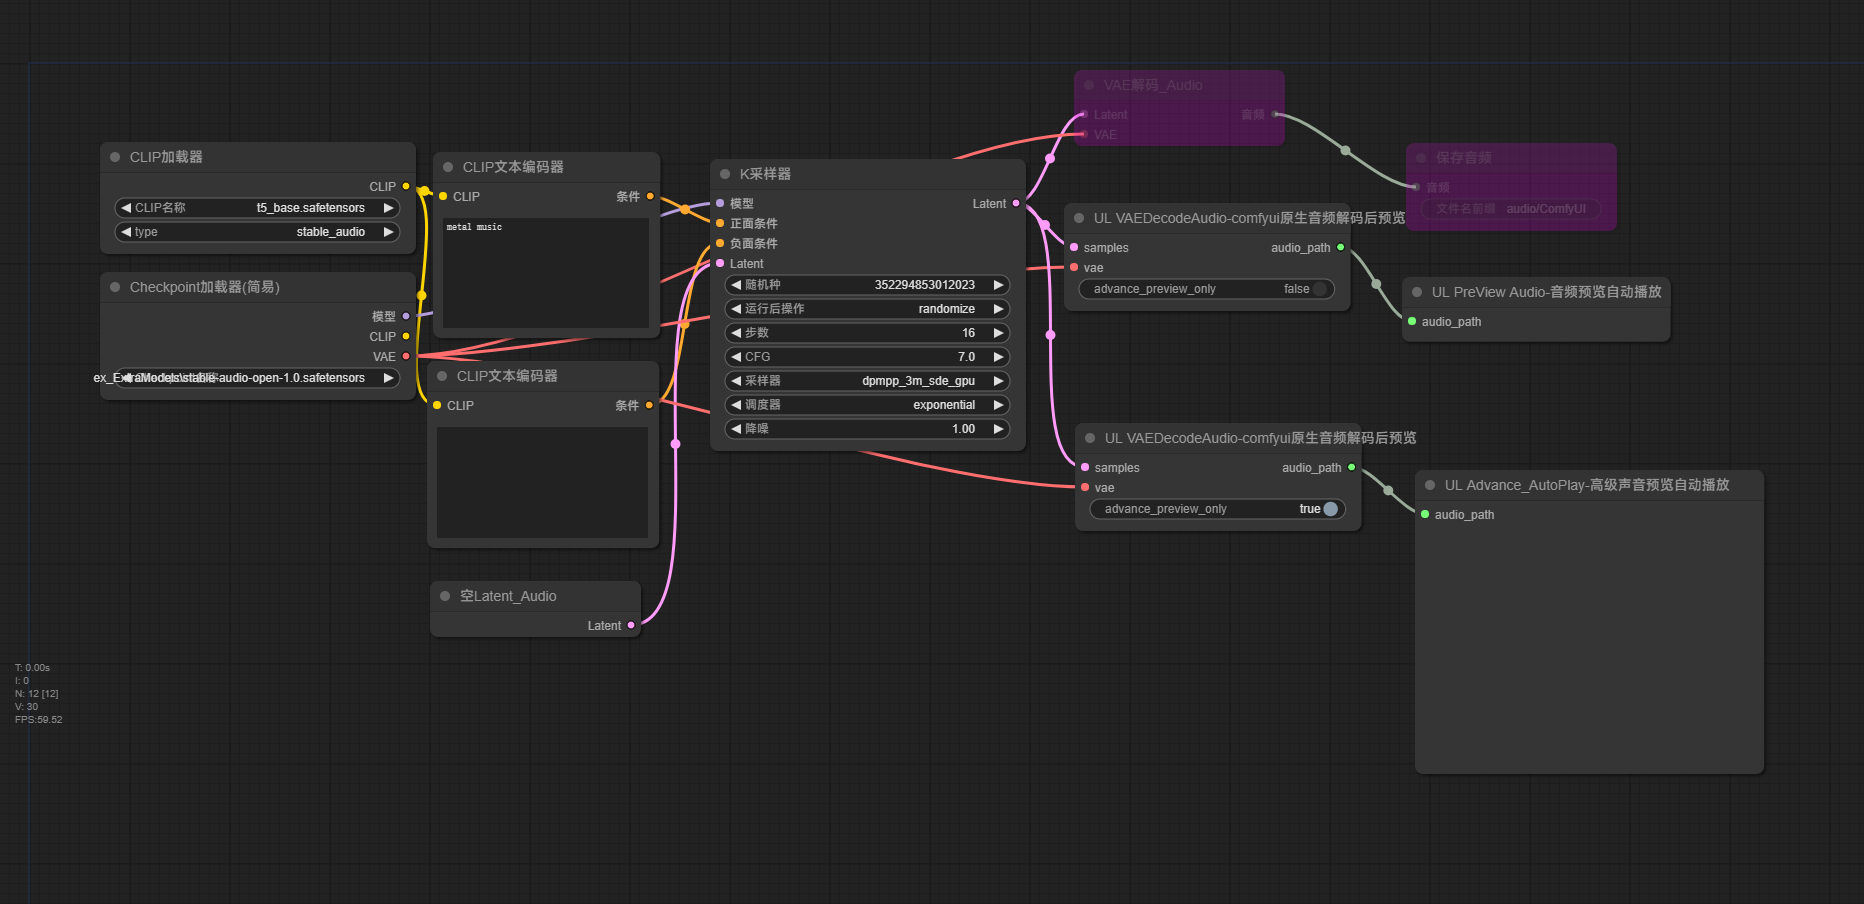
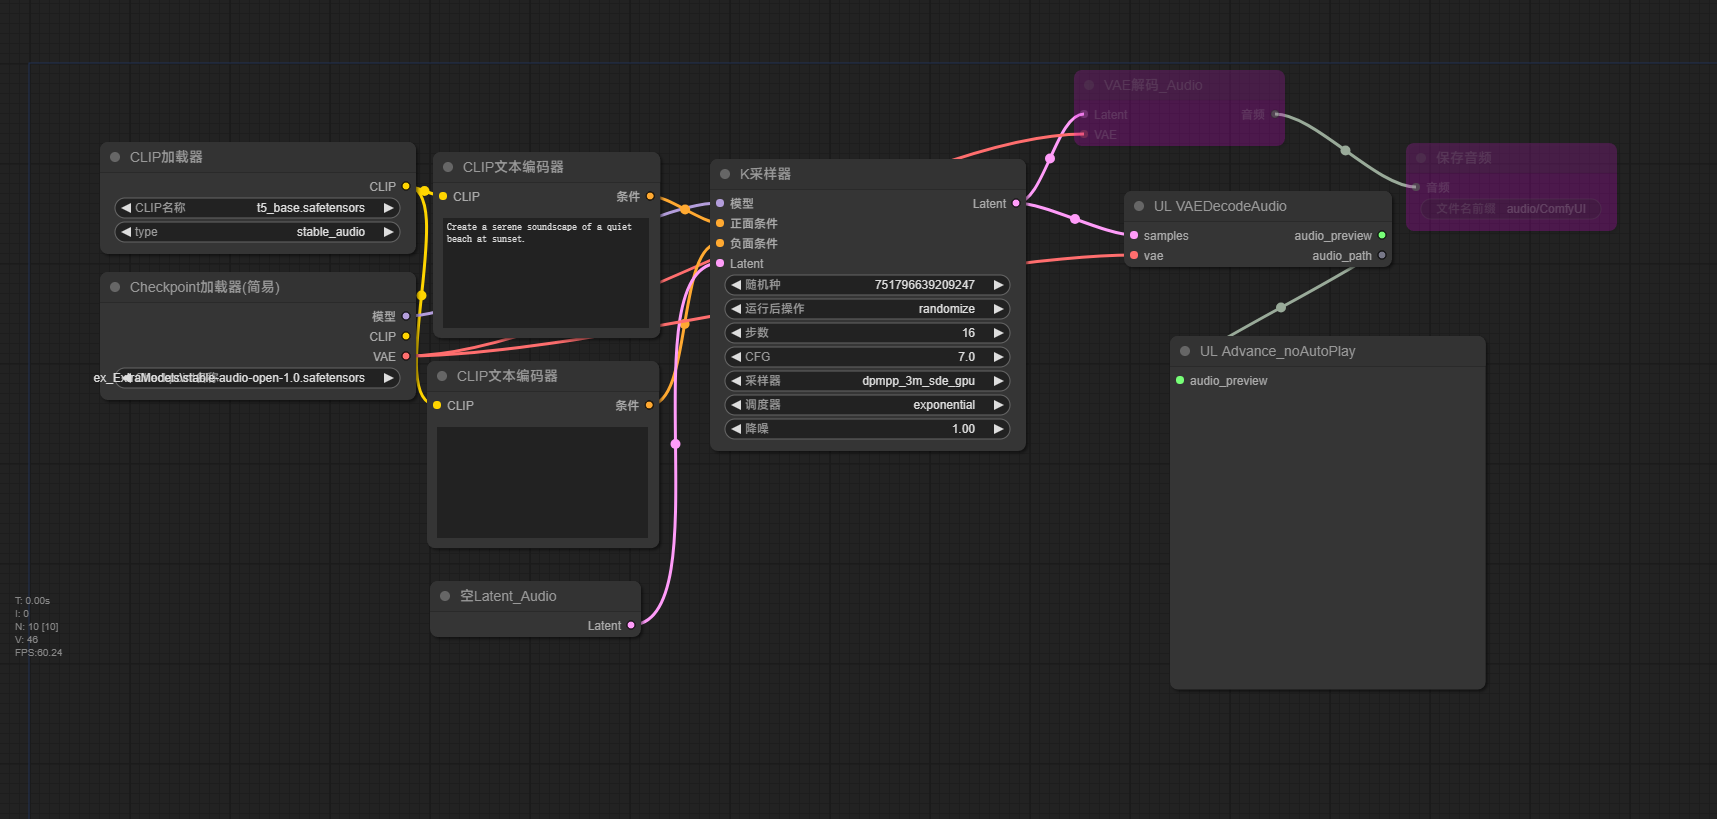
Update

diff --git a/Audio/utils.py b/Audio/utils.py
@@ -46,7 +46,6 @@ class UL_Audio_ChatTTS_Loader:
         return (self.ChatTTS_Loader, )
 
 class UL_Advance_AutoPlay:
-
     @classmethod
     def INPUT_TYPES(s):
         return {"required": {
@@ -59,51 +58,14 @@ class UL_Advance_AutoPlay:
     FUNCTION = "UL_Advance_AutoPlay"
     CATEGORY = "ExtraModels/UL Audio"
     TITLE = "UL Advance_AutoPlay"
-
     INPUT_IS_LIST = False
     OUTPUT_IS_LIST = ()
-
     OUTPUT_NODE = True
   
     def UL_Advance_AutoPlay(self,audio_preview):
         return {"ui": {"audio":[audio_preview]}}
         
-class UL_VAEDecodeAudio:
-    @classmethod
-    def INPUT_TYPES(s):
-        return {"required": { 
-            "advance_preview_only": ("BOOLEAN",{"default": False}),
-            "samples": ("LATENT", ), 
-            "vae": ("VAE", ),
-            }}
-    
-    RETURN_TYPES = ("AUDIO_PATH",)
-    RETURN_NAMES = ("audio_path",)
-    FUNCTION = "UL_VAEDecodeAudio"
-    CATEGORY = "ExtraModels/UL Audio"
-    TITLE = "UL VAEDecodeAudio"
-
-    def UL_VAEDecodeAudio(self, vae, samples, advance_preview_only):
-        audio_file = 'UL_audio.wav'
-        audio_path = os.path.join(output_dir, audio_file)
-        audio = vae.decode(samples["samples"]).movedim(-1, 1)
-        sample_rate = 44100
-        torchaudio.save(audio_path, audio[0], sample_rate)
-        if advance_preview_only == True:
-            result = {
-                "filename": audio_file,
-                "subfolder": "",
-                "type": "output",
-                "prompt":"comfy_audio",
-                }
-        else:
-            result = audio_path
-            
-        return (result,)
-        
-    
 class UL_Advance_noAutoPlay:
-
     @classmethod
     def INPUT_TYPES(s):
         return {"required": {
@@ -122,6 +84,35 @@ class UL_Advance_noAutoPlay:
   
     def UL_Advance_noAutoPlay(self,audio_preview):
         return {"ui": {"audio":[audio_preview]}}
+        
+class UL_VAEDecodeAudio:
+    @classmethod
+    def INPUT_TYPES(s):
+        return {"required": {
+            "samples": ("LATENT", ), 
+            "vae": ("VAE", ),
+            }}
+    
+    RETURN_TYPES = ("AUDIO_PREVIEW", "AUDIO_PATH",)
+    RETURN_NAMES = ('audio_preview', "audio_path",)
+    FUNCTION = "UL_VAEDecodeAudio"
+    CATEGORY = "ExtraModels/UL Audio"
+    TITLE = "UL VAEDecodeAudio"
+
+    def UL_VAEDecodeAudio(self, vae, samples):
+        audio_file = 'UL_audio_comfy_preview.wav'
+        audio_path = os.path.join(output_dir,  'audio', audio_file)
+        audio = vae.decode(samples["samples"]).movedim(-1, 1)
+        torchaudio.save(audio_path, audio[0], sample_rate=44100)
+        
+        result = {
+                "filename": audio_file,
+                "subfolder": "audio",
+                "type": "output",
+                "prompt":"comfy_audio",
+                }
+            
+        return (result, audio_path)
 
 class UL_Load_Audio:
     @classmethod
@@ -323,8 +314,8 @@ def Run_ChatTTS(text, prompt, rand_spk, model_local_path, device, temperature, t
     output_dir = folder_paths.get_output_directory()
     # print('#audio_path',folder_paths, )
     # 添加文件名后缀
-    audio_file = "UL_audio"
-    audio_path = os.path.join(output_dir, "UL_audio.wav")
+    audio_file = "UL_audio_ChatTTS"
+    audio_path = os.path.join(output_dir, 'audio', "UL_audio_ChatTTS.wav")
     #保存音频文件，默认不带后缀，得手动添加。
     torchaudio.save(audio_path, torch.from_numpy(wavs[0]), 24000)
     
@@ -333,7 +324,7 @@ def Run_ChatTTS(text, prompt, rand_spk, model_local_path, device, temperature, t
 
     result = {
                 "filename": f'{audio_file}.wav',
-                "subfolder": "",
+                "subfolder": "audio",
                 "type": "output",
                 "prompt":text,
                 }
@@ -456,17 +447,17 @@ def uvr5(model_name, inp_root, save_root_vocal,save_root_ins, agg, format0, devi
     else:
         vocal_name = 'vocal_UL_audio.wav_10.wav'
         bgm_name = 'instrument_UL_audio.wav_10.wav'
-    vocal_path = os.path.join(output_dir,  vocal_name)
-    bgm_path = os.path.join(output_dir,  bgm_name)
+    vocal_path = os.path.join(output_dir, 'audio', vocal_name)
+    bgm_path = os.path.join(output_dir, 'audio', bgm_name)
     result_a = {
                 "filename": vocal_name,
-                "subfolder": "",
+                "subfolder": "audio",
                 "type": "output",
                 "prompt":"人声",
                 }
     result_b = {
                 "filename": bgm_name,
-                "subfolder": "",
+                "subfolder": "audio",
                 "type": "output",
                 "prompt":"背景音",
                 }

diff --git a/Audio/nodes.py b/Audio/nodes.py
@@ -145,7 +145,7 @@ class UL_Audio_stable_audio_open:
         # 添加文件名后缀
         audio_file = 'UL_audio'
         audio_file = f"{audio_file}.wav"
-        audio_path = os.path.join(comfy_output_dir, audio_file)
+        audio_path = os.path.join(comfy_output_dir, 'audio', audio_file)
 
         torchaudio.save(audio_path, output, self.sample_rate)
         
@@ -159,7 +159,7 @@ class UL_Audio_stable_audio_open:
             
         result = {
                 "filename": audio_file,
-                "subfolder": "",
+                "subfolder": "audio",
                 "type": "output",
                 "prompt":prompt
                 }
@@ -304,15 +304,15 @@ class UL_Audio_facebook_musicgen:
         sampling_rate = self.model.sample_rate
         del self.model
         output_dir = folder_paths.get_output_directory()
-        audio_file = "UL_audio.wav"
-        audio_path = os.path.join(output_dir, "UL_audio")
+        audio_file = "UL_audio_musicgen.wav"
+        audio_path = os.path.join(output_dir, 'audio', "UL_audio_musicgen")
         for idx, one_wav in enumerate(audio):
             #保存带wav后缀的音频文件
             audio_write(audio_path, one_wav.cpu(), sampling_rate, strategy="loudness")
 
         result = {
                 "filename": audio_file,
-                "subfolder": "",
+                "subfolder": "audio",
                 "type": "output",
                 "prompt":prompt
                 }
@@ -455,13 +455,13 @@ class UL_Audio_OpenVoiceV2:
                 
         device = get_device_by_name(device)
         audio_file = 'UL_audio_OpenVoiceV2'
-        audio_path = os.path.join(output_dir, f'{audio_file}.wav')
+        audio_path = os.path.join(output_dir, 'audio', f'{audio_file}.wav')
         print("\033[93m原声：", ori_audio, "\n目标声", ref_audio, "\033[0m")
         OpenVoiceV2_clone(model_path, device, ori_audio, ref_audio, comfy_temp_dir, audio_path, OpenVoiceV2_tau)
             
         result = {
                 "filename": f'{audio_file}.wav',
-                "subfolder": "",
+                "subfolder": "audio",
                 "type": "output",
                 "prompt":"声音克隆",
                 }
@@ -577,7 +577,7 @@ class UL_Audio_XTTS:
         # dtype = get_dtype_by_name(dtype)
         
         audio_file = 'UL_audio_XTTS'
-        audio_path = os.path.join(output_dir, f'{audio_file}.wav')
+        audio_path = os.path.join(output_dir, 'audio', f'{audio_file}.wav')
         if apply_tts_api == False:
             if not is_module_imported('XttsConfig'):
                 from TTS.tts.configs.xtts_config import XttsConfig
@@ -677,7 +677,7 @@ class UL_Audio_XTTS:
                         tmp_audio = text_audio + AudioSegment.silent(dur_time - text_audio_dur_time)
                     new_audio_seg += tmp_audio
                 
-                audio_path = os.path.join(output_dir, f'{audio_file}.wav')
+                audio_path = os.path.join(output_dir, 'audio', f'{audio_file}.wav')
                 new_audio_seg.export(audio_path, format="wav")
             else:
                 if do_sample == False:
@@ -722,7 +722,7 @@ class UL_Audio_XTTS:
         # print("\033[93m原声：", ori_audio, "\n目标声", ref_audio, "\033[0m")
         result = {
                 "filename": f'{audio_file}.wav',
-                "subfolder": "",
+                "subfolder": "audio",
                 "type": "output",
                 "prompt":"XTTS声音克隆",
                 }
@@ -825,7 +825,7 @@ class UL_Audio_noise_suppression:
         audio = get_audio_from_video(audio_path)
         device =get_device_by_name(device)
         audio_file = 'UL_audio_denoised.wav'
-        output_audio_path = os.path.join(output_dir, audio_file)
+        output_audio_path = os.path.join(output_dir,  'audio', audio_file)
         if uuid_output_noPreview == True:
             import uuid
             # audio_file = f'UL_audio_denoised_{uuid.uuid1()}'
@@ -838,7 +838,7 @@ class UL_Audio_noise_suppression:
             
         advance_preview = {
                 "filename": audio_file,
-                "subfolder": "",
+                "subfolder": "audio",
                 "type": "output",
                 "prompt":model_args,
                 }

diff --git a/__init__.py b/__init__.py
@@ -6,12 +6,15 @@ import folder_paths
 fonts_path = os.path.join(folder_paths.models_dir, 'fonts')
 translator_path = os.path.join(folder_paths.models_dir, 'prompt_generator')
 audio_checkpoints = os.path.join(folder_paths.models_dir, 'audio_checkpoints')
+audio_output_path = os.path.join(folder_paths.get_output_directory(), 'audio')
 if not is_folder_exist(fonts_path):
     os.makedirs(fonts_path)
 if not is_folder_exist(translator_path):
     os.makedirs(translator_path)
 if not is_folder_exist(audio_checkpoints):
     os.makedirs(audio_checkpoints)
+if not is_folder_exist(audio_output_path):
+    os.makedirs(audio_output_path)
 
 # only import if running as a custom node
 try:
